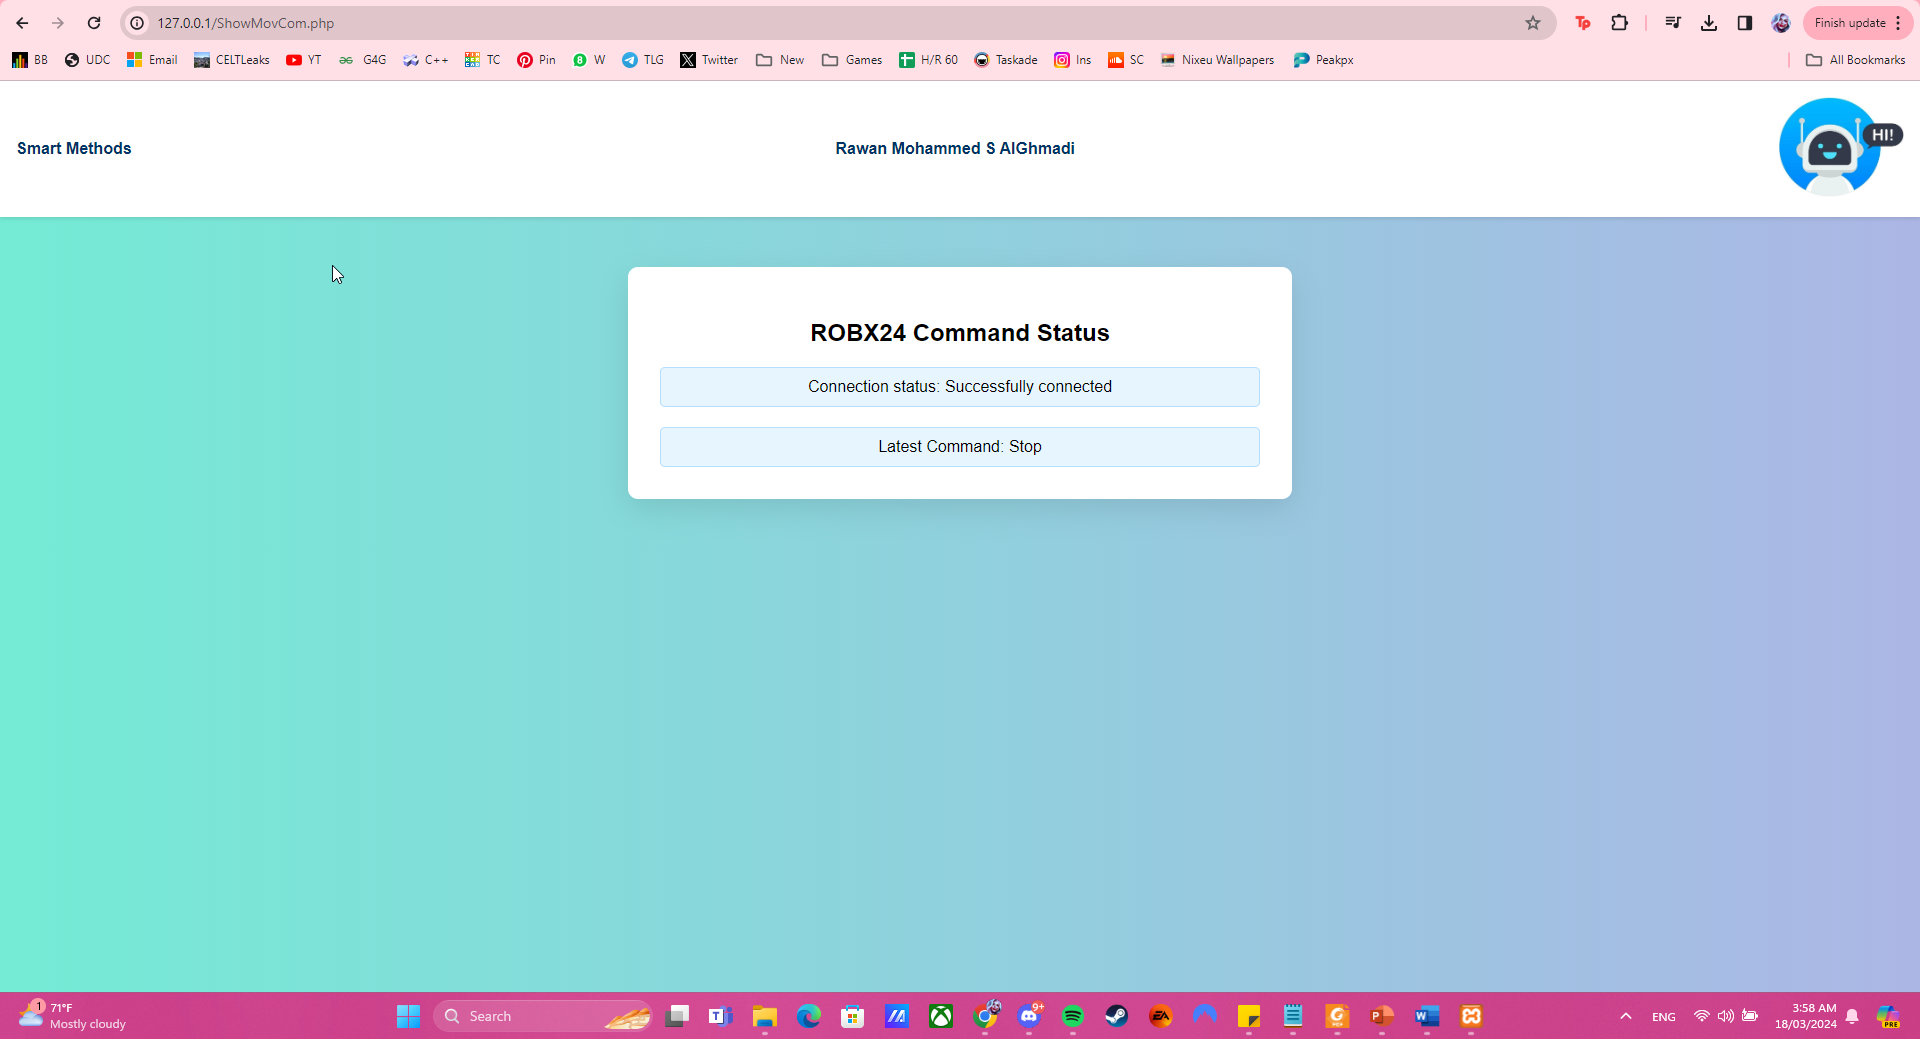
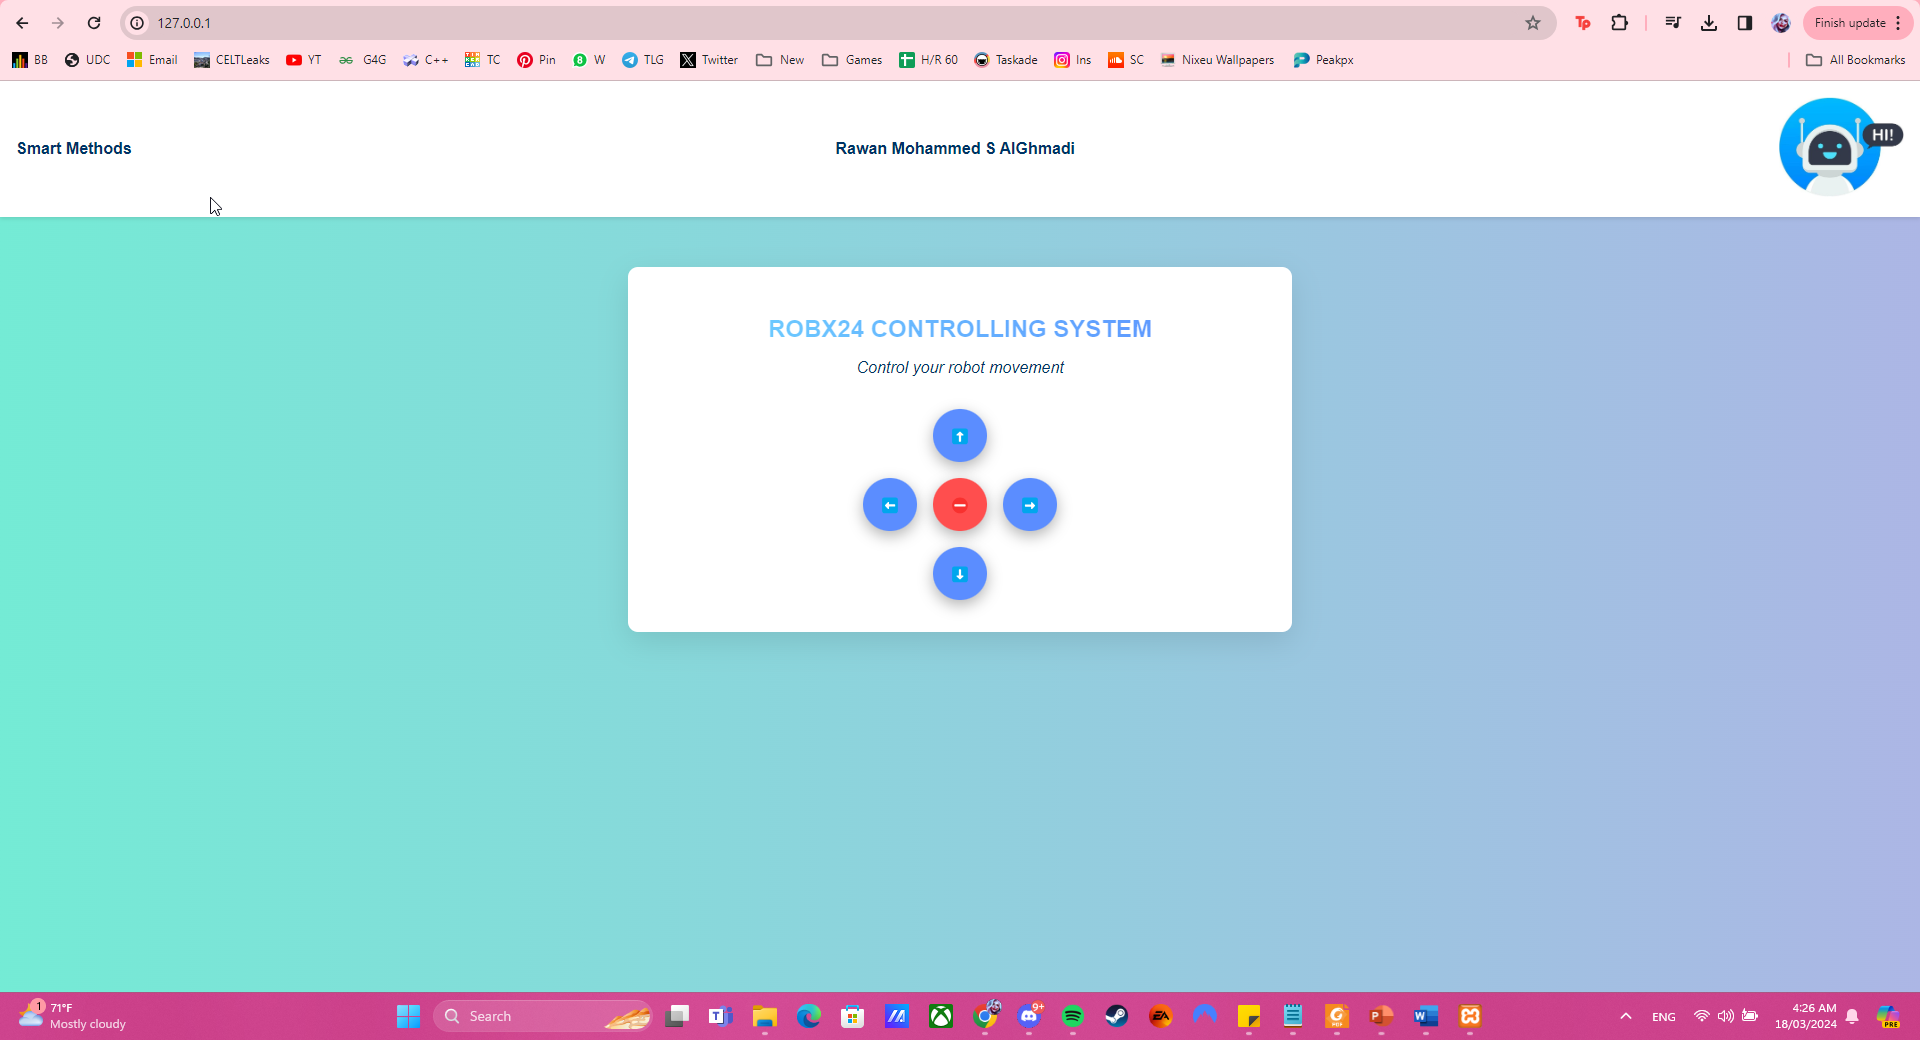
Add files via upload

diff --git a/index.html b/index.html
@@ -1,0 +1,130 @@
+<!DOCTYPE html>
+<html lang="en">
+<head>
+    <meta charset="UTF-8">
+    <meta name="viewport" content="width=device-width, initial-scale=1">
+    <title>ROBX24 Controlling System</title>
+    <link href="https://cdn.jsdelivr.net/npm/pico.css" rel="stylesheet">
+    <style>
+        body {
+            font-family: Arial, sans-serif;
+            margin: 0;
+            padding: 0;
+            background: linear-gradient(to right, #74ebd5, #acb6e5);
+        }
+        .header-container {
+            display: flex;
+            justify-content: space-between;
+            align-items: center;
+            padding: 1rem;
+            background: #ffffff;
+            box-shadow: 0 2px 4px rgba(0, 0, 0, 0.1);
+        }
+        .header-container div {
+            font-weight: bold;
+            color: #003366; 
+        }
+        .container {
+            max-width: 600px;
+            margin: 50px auto;
+            padding: 2rem;
+            background: #ffffff;
+            border-radius: 10px;
+            box-shadow: 0 10px 30px rgba(0, 0, 0, 0.1);
+            text-align: center;
+        }
+        .controls {
+            display: grid;
+            grid-template-columns: repeat(3, auto);
+            grid-template-rows: auto auto;
+            gap: 1rem;
+            justify-content: center;
+            align-items: center;
+            margin-top: 2rem;
+        }
+        .control-btn {
+            padding: 1rem;
+            border-radius: 50%;
+            color: #ffffff;
+            cursor: pointer;
+            background: #5b8dff;
+            box-shadow: 0 5px 15px rgba(0, 0, 0, 0.3);
+            transition: background-color 0.3s;
+        }
+        .stop-btn {
+            background: #ff4e4e;
+        }
+        .control-btn:active {
+            background: #3a6ea5;
+        }
+        .stop-btn:active {
+            background: #ff1e1e;
+        }
+        .forwards {
+            grid-column: 2;
+            grid-row: 1;
+        }
+        .left {
+            grid-column: 1;
+            grid-row: 2;
+        }
+        .stop-btn {
+            grid-column: 2;
+            grid-row: 2;
+        }
+        .right {
+            grid-column: 3;
+            grid-row: 2;
+        }
+        .backwards {
+            grid-column: 2;
+            grid-row: 3;
+        }
+        #commandStatus, #connectionStatus {
+            margin-top: 20px;
+            padding: 10px;
+            background: #e7f5ff;
+            border: 1px solid #b6dfff;
+            border-radius: 5px;
+        }
+        .title {
+            font-size: 1.5rem;
+            background: linear-gradient(to right, #6fd6ff, #5b8dff);
+            -webkit-background-clip: text;
+            color: transparent;
+        }
+        .subtitle {
+            font-style: italic;
+            color: #003366;
+        }
+    </style>
+</head>
+<body>
+<div class="header-container">
+    <div>Smart Methods</div>
+    <div>Rawan Mohammed S AlGhmadi</div>
+    <div><img src="img/robot-icon.png" alt="Robot Icon" width="125" height="100" /></div>
+</div>
+<main class="container">
+    <h1 class="title">ROBX24 CONTROLLING SYSTEM</h1>
+    <p class="subtitle">Control your robot movement</p>
+    <div class="controls">
+        <div class="control-btn forwards" onclick="sendCommand('Forwards')">⬆</div>
+        <div class="control-btn left" onclick="sendCommand('Left')">⬅</div>
+        <div class="control-btn stop-btn" onclick="sendCommand('Stop')">⛔</div>
+        <div class="control-btn right" onclick="sendCommand('Right')">➡</div>
+        <div class="control-btn backwards" onclick="sendCommand('Backwards')">⬇</div>
+    </div>
+    
+</main>
+<script>
+    function sendCommand(command) {
+        var xhttp = new XMLHttpRequest();
+        xhttp.open("GET", "http://127.0.0.1/GetMovements.php?command=" + command );
+        xhttp.setRequestHeader("Content-type", "application/x-www-form-urlencoded");
+        xhttp.send();
+    }
+</script>
+</body>
+</html>
+

diff --git a/ShowMovCom.php b/ShowMovCom.php
@@ -1,0 +1,97 @@
+<!DOCTYPE html>
+<html lang="en">
+<head>
+    <meta charset="UTF-8">
+    <meta name="viewport" content="width=device-width, initial-scale=1">
+    <title>ROBX24 Controlling System</title>
+    <link href="https://cdn.jsdelivr.net/npm/pico.css" rel="stylesheet">
+    <style>
+        body {
+            font-family: Arial, sans-serif;
+            margin: 0;
+            padding: 0;
+            background: linear-gradient(to right, #74ebd5, #acb6e5);
+        }
+        .header-container {
+            display: flex;
+            justify-content: space-between;
+            align-items: center;
+            padding: 1rem;
+            background: #ffffff;
+            box-shadow: 0 2px 4px rgba(0, 0, 0, 0.1);
+        }
+        .header-container div {
+            font-weight: bold;
+            color: #003366; 
+        }
+        .container {
+            max-width: 600px;
+            margin: 50px auto;
+            padding: 2rem;
+            background: #ffffff;
+            border-radius: 10px;
+            box-shadow: 0 10px 30px rgba(0, 0, 0, 0.1);
+            text-align: center;
+        }
+        .status {
+            margin-top: 20px;
+            padding: 10px;
+            background: #e7f5ff;
+            border: 1px solid #b6dfff;
+            border-radius: 5px;
+        }
+        .title {
+            font-size: 1.5rem;
+            background: linear-gradient(to right, #6fd6ff, #5b8dff);
+            -webkit-background-clip: text;
+            color: transparent;
+        }
+        .subtitle {
+            font-style: italic;
+            color: #003366;
+        }
+    </style>
+</head>
+<body>
+<div class="header-container">
+    <div>Smart Methods</div>
+    <div>Rawan Mohammed S AlGhmadi</div>
+    <div><img src="img/robot-icon.png" alt="Robot Icon" width="125" height="100" /></div>
+</div>
+<div class="container">
+    <h2>ROBX24 Command Status</h2>
+    <?php
+    // Database credentials
+    $host = 'localhost';
+    $db_user = 'root';
+    $db_password = '';
+    $db_name = 'robx24';
+
+    // Establish connection
+    $conn = mysqli_connect($host, $db_user, $db_password, $db_name);
+
+    // Check connection
+    if ($conn->connect_error) {
+        echo "<div class='status'>Connection status: Failed to connect - " . $conn->connect_error . "</div>";
+    } else {
+        echo "<div class='status'>Connection status: Successfully connected</div>";
+
+        // Fetch the latest command from the database
+        $sql = "SELECT movements FROM robx24_controlling_system ORDER BY ID DESC LIMIT 1";
+        $result = $conn->query($sql);
+
+        if ($result->num_rows > 0) {
+            // output data of each row
+            while($row = $result->fetch_assoc()) {
+                echo "<div class='status'>Latest Command: " . htmlspecialchars($row["movements"]) . "</div>";
+            }
+        } else {
+            echo "<div class='status'>No commands found</div>";
+        }
+    }
+
+    $conn->close();
+    ?>
+</main>
+</body>
+</html>

diff --git a/SaveCommand.php b/SaveCommand.php
@@ -1,0 +1,28 @@
+<?php
+// Database credentials
+$host = 'localhost';
+$db_user = 'root';
+$db_password = '';
+$db_name = 'robx24';
+
+// Establish connection
+$conn = mysqli_connect($host, $db_user, $db_password, $db_name);
+
+// Fetch the latest command from the database
+$sql = "SELECT movements FROM robx24_controlling_system ORDER BY ID DESC LIMIT 1";
+$result = $conn->query($sql);
+
+if ($result->num_rows > 0) {
+    // output data of each row
+    while($row = $result->fetch_assoc()) {
+        $command = htmlspecialchars($row["movements"]);
+        // Output command
+        echo $command;
+    }
+} else {
+    // No command found
+    echo "N";
+}
+
+$conn->close();
+?>
